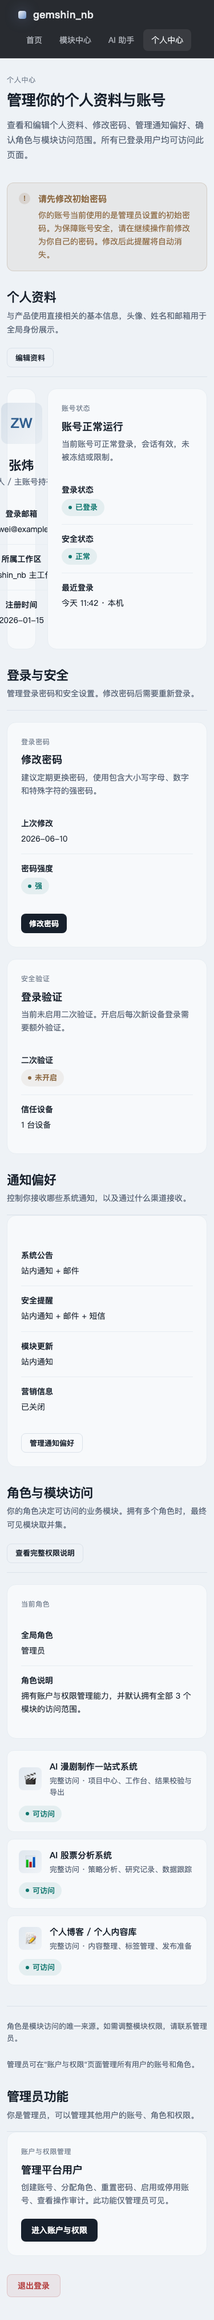
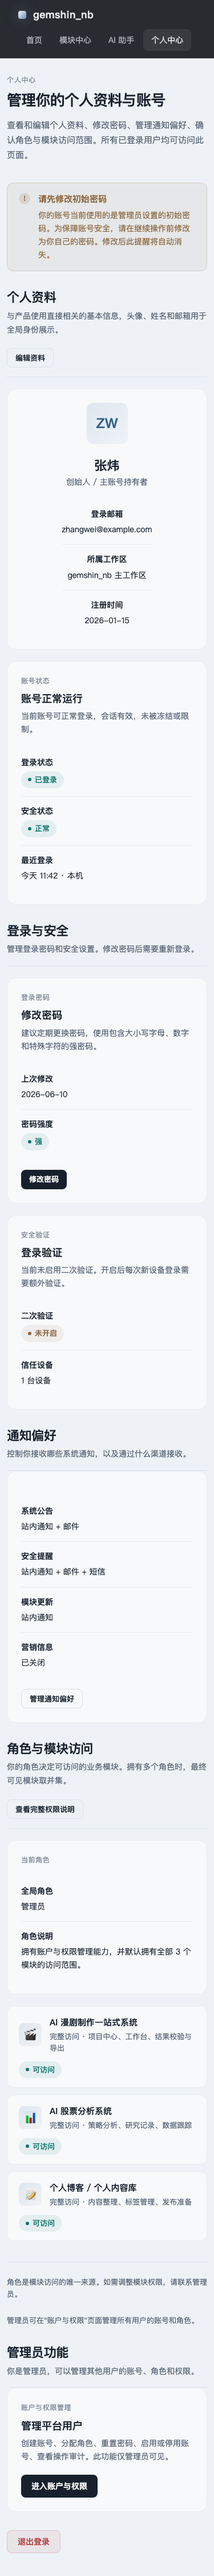
fix(demo): 个人中心窄屏双列卡片改为单列堆叠

diff --git a/docs/demo/personal-center-demo.html b/docs/demo/personal-center-demo.html
@@ -573,7 +573,7 @@
           </div>
           <a href="#" class="btn btn-secondary btn-sm">编辑资料</a>
         </div>
-        <div class="cards-grid" style="grid-template-columns: minmax(0, 1fr) minmax(280px, 1fr);">
+        <div class="cards-grid">
           <div class="card">
             <div class="profile-card">
               <div class="profile-avatar">ZW</div>
